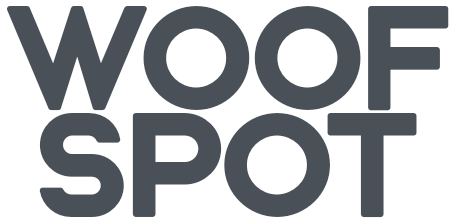
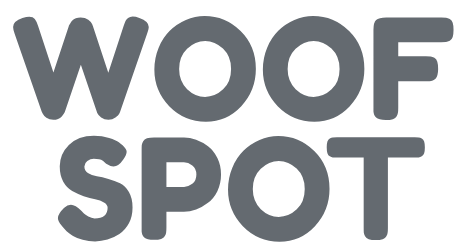
fix: Refine accordion issue with first element
- Change branding image for action_picture_base template.

diff --git a/static/css/style.css b/static/css/style.css
@@ -1,12 +1,13 @@
 /* @import url("https://fonts.googleapis.com/css2?family=Inter:ital,opsz,wght@0,14..32,100..900;1,14..32,100..900&family=Montserrat:ital,wght@0,100..900;1,100..900&display=swap"); */
-
-@import url("https://fonts.googleapis.com/css2?family=Inter:ital,opsz,wght@0,14..32,100..900;1,14..32,100..900&family=Mona+Sans:ital,wght@0,200..900;1,200..900&family=Montserrat:ital,wght@0,100..900;1,100..900&family=Rubik:ital,wght@0,300..900;1,300..900&display=swap");
+/* @import url("https://fonts.googleapis.com/css2?family=Inter:ital,opsz,wght@0,14..32,100..900;1,14..32,100..900&family=Mona+Sans:ital,wght@0,200..900;1,200..900&family=Montserrat:ital,wght@0,100..900;1,100..900&family=Rubik:ital,wght@0,300..900;1,300..900&display=swap"); */
+@import url("https://fonts.googleapis.com/css2?family=Fredoka:wght@300..700&family=Inter:ital,opsz,wght@0,14..32,100..900;1,14..32,100..900&family=Mona+Sans:ital,wght@0,200..900;1,200..900&family=Montserrat:ital,wght@0,100..900;1,100..900&family=Rubik:ital,wght@0,300..900;1,300..900&display=swap");
 
 :root {
   --font-family: "Rubik", sans-serif;
-  --header-font-family: "Rubik", sans-serif;
+  --header-font-family: "Fredoka", sans-serif;
   --white-color: rgb(251, 251, 251);
   --bootstrap-black: rgb(8, 10, 12);
+  --bootstrap-black-20: rgba(8, 10, 12, 0.2);
   --bootstrap-danger-75: rgb(220, 53, 69, 0.75);
   --bootstrap-danger-90: rgb(220, 53, 69, 0.9);
   --bootstrap-danger-100: rgb(220, 53, 69);
@@ -29,11 +30,11 @@
   --bootstrap-bs-teal: rgb(32, 201, 151);
   --bootstrap-bs-cyan: rgb(13, 202, 240);
   --bootstrap-bs-gray: rgb(108, 117, 125);
-  --bootstrap-bs-gray-75: rgb(108, 117, 125, 0.75);
-  --bootstrap-bs-gray-50: rgb(108, 117, 125, 0.5);
-  --bootstrap-bs-gray-25: rgb(108, 117, 125, 0.25);
+  --bootstrap-bs-gray-75: rgba(108, 117, 125, 0.75);
+  --bootstrap-bs-gray-50: rgba(108, 117, 125, 0.5);
+  --bootstrap-bs-gray-25: rgba(108, 117, 125, 0.25);
   --bs-gray-700: rgb(73, 80, 87);
-  --bs-gray-700-85: rgb(73, 80, 87, 0.85);
+  --bs-gray-700-85: rgba(73, 80, 87, 0.85);
 }
 
 * {
@@ -53,7 +54,7 @@ body {
   background-color: var(--bootstrap-danger-75);
   color: var(--white-color);
   border: 1px solid var(--bootstrap-danger-90);
-  box-shadow: 0px 4px 6px rgba(0, 0, 0, 0.2);
+  box-shadow: 0px 4px 6px var(--bootstrap-black-20);
   margin-bottom: 0.5rem;
 }
 
@@ -134,7 +135,7 @@ form.login p:last-of-type {
 .tagline-header-font {
   font-family: var(--header-font-family);
   font-optical-sizing: auto;
-  font-weight: 700;
+  font-weight: 500;
   font-style: normal;
 }
 
@@ -161,8 +162,8 @@ form.login p:last-of-type {
 }
 
 #rive-dog {
-  height: 128px;
-  width: 128px;
+  height: 110px;
+  width: 110px;
   opacity: 0.8;
 }
 
@@ -185,12 +186,11 @@ form.login p:last-of-type {
   }
 }
 
-/* popover menu */
-
+/* Popover menu */
 #menu {
   width: 100%;
   height: 100%;
-  box-shadow: 0 2px 40px darkgrey;
+  box-shadow: 0 2px 40px var(--bootstrap-black-20);
 
   /*  undo popover styles  */
   border: none;
@@ -273,13 +273,6 @@ form.login p:last-of-type {
   height: 100vh;
 }
 
-/* do not use ? */
-.dropdown-menu {
-  box-shadow: rgba(0, 0, 0, 0.1) 0px 4px 6px -1px,
-    rgba(0, 0, 0, 0.06) 0px 2px 4px -1px;
-  border: none;
-}
-
 #search-form {
   display: flex;
   justify-content: left;
@@ -322,6 +315,7 @@ form.login p:last-of-type {
     border-top: 1px solid #ddd;
     z-index: 10;
     padding: 1rem;
+    box-shadow: 0px 4px 16px var(--bootstrap-black-20);
   }
 }
 

diff --git a/event_app/templates/event_app/index.html b/event_app/templates/event_app/index.html
@@ -45,12 +45,12 @@
 
             <div class="accordion-item">
                 <h2 class="accordion-header" id="headingOne">
-                    <button class="accordion-button" type="button" data-bs-toggle="collapse"
-                        data-bs-target="#collapseOne" aria-expanded="true" aria-controls="collapseOne">
+                    <button class="accordion-button collapsed" type="button" data-bs-toggle="collapse"
+                        data-bs-target="#collapseOne" aria-expanded="false" aria-controls="collapseOne">
                         What is Woofspot?
                     </button>
                 </h2>
-                <div id="collapseOne" class="accordion-collapse collapse show" aria-labelledby="headingOne"
+                <div id="collapseOne" class="accordion-collapse collapse" aria-labelledby="headingOne"
                     data-bs-parent="#faqAccordion">
                     <div class="accordion-body">
                         Woofspot is a platform that helps pet owners discover and register for pet-friendly events in

diff --git a/templates/base.html b/templates/base.html
@@ -42,7 +42,7 @@
     {% endif%}
 
     <nav class="navbar position-fixed top-0 start-0 z-3 w-100 d-flex justify-content-between align-items-center 
-        bg-white px-3 px-md-4 px-lg-5 shadow-sm">
+        bg-white p-3 px-3 px-md-4 px-lg-5 shadow-sm">
         <div class="d-flex justify-content-between align-items-center">
             <a href="{% url 'home' %}" class="navbar-brand">
                 <img src="{% static 'images/ws_logo_text.webp' %}" alt="Woofspot logo" class="img-fluid logo-size">

diff --git a/templates/action_picture_base.html b/templates/action_picture_base.html
@@ -74,7 +74,7 @@
     <script src="https://unpkg.com/@rive-app/canvas@2.20.0"></script>
     <script>
         const r = new rive.Rive({
-            src: "{% static 'animations/doggo2.riv' %}",
+            src: "{% static 'animations/doggo.riv' %}",
             canvas: document.getElementById('rive-dog'),
             autoplay: true,
             stateMachines: 'State Machine 1',
